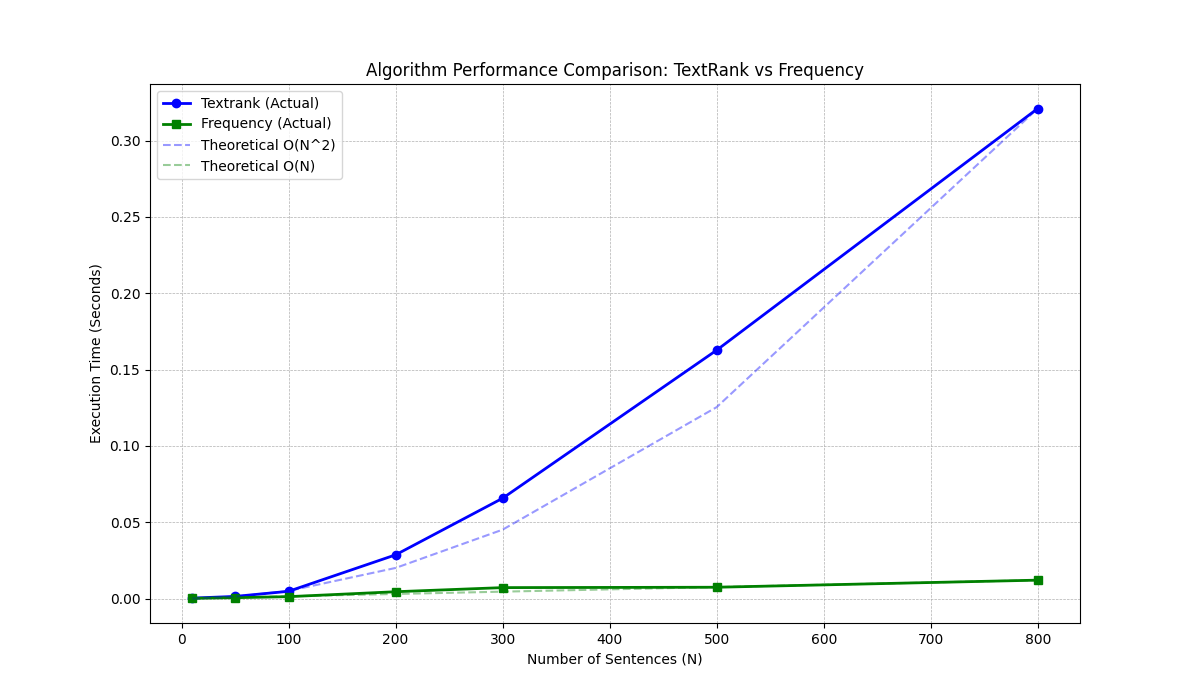
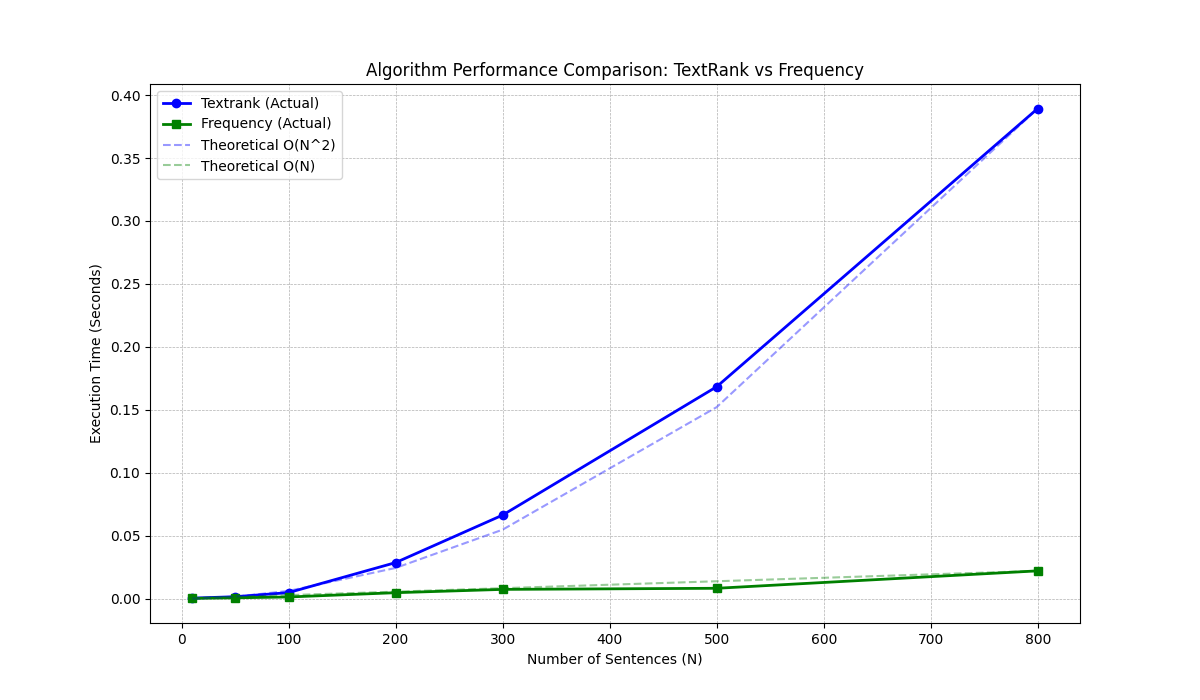
Add demo

diff --git a/interactive_summary.py b/interactive_summary.py
@@ -1,0 +1,244 @@
+import sys
+import time
+import os
+import re
+import numpy as np
+from datetime import datetime
+from src.utils import load_config, setup_logger, save_summary
+from src.preprocessing import split_into_sentences, filter_sentences
+from src.llm_oracle import LLMOracle
+from src.hybrid_merge import HybridMerger
+from src.classic_strategies import get_strategy
+import warnings
+
+warnings.filterwarnings("ignore")
+
+def get_multiline_input():
+    """
+    Captures multiline input from the user via the console.
+    Ends when the user types 'END' on a new line.
+    """
+    print("\n" + "-"*60)
+    print(" INPUT REQUIRED")
+    print("-"*60)
+    print("Please paste your text below.")
+    print("Type 'END' on a new line and press Enter to start processing.")
+    print("Type 'EXIT' to quit the program.")
+    print("-"*60)
+    
+    lines = []
+    while True:
+        try:
+            line = input()
+        except EOFError:
+            break
+            
+        if line.strip().upper() == 'END':
+            break
+        if line.strip().upper() == 'EXIT':
+            return None
+            
+        lines.append(line)
+    
+    return "\n".join(lines)
+
+def evaluate_summaries_with_llm(oracle, original_text, candidates):
+    """
+    Uses the LLM to judge the quality of the generated summaries.
+    Returns a dictionary of scores (0-100).
+    """
+    print("\n[Judge] Asking LLM to evaluate the summaries...")
+    
+    # Constructing a prompt for the LLM to act as a judge
+    prompt = f"""
+    You are an expert evaluator of text summarization systems.
+    
+    ORIGINAL TEXT:
+    "{original_text}"
+    
+    Please evaluate the following 3 summaries based on Accuracy, Coherence, and Coverage.
+    Assign a score from 0 to 100 for each.
+    
+    SUMMARY 1 (Classic Strategy):
+    "{candidates['Classic']}"
+    
+    SUMMARY 2 (Semantic/LLM):
+    "{candidates['Semantic']}"
+    
+    SUMMARY 3 (Hybrid Merged):
+    "{candidates['Hybrid']}"
+    
+    RESPONSE FORMAT:
+    You must return the result strictly in this format:
+    Classic: <score>
+    Semantic: <score>
+    Hybrid: <score>
+    
+    Do not add any explanation, just the scores.
+    """
+    
+    try:
+        # We reuse the oracle's generation method to get the evaluation
+        # Assuming get_abstractive_summary sends text to LLM
+        response_text = oracle.get_abstractive_summary(prompt)
+        
+        # Parse scores using Regex to be robust
+        scores = {}
+        patterns = {
+            'Classic': r"Classic:\s*(\d+)",
+            'Semantic': r"Semantic:\s*(\d+)",
+            'Hybrid': r"Hybrid:\s*(\d+)"
+        }
+        
+        for key, pattern in patterns.items():
+            match = re.search(pattern, response_text)
+            if match:
+                scores[key] = int(match.group(1))
+            else:
+                scores[key] = 0 # Default if parsing fails
+                
+        return scores, response_text
+        
+    except Exception as e:
+        print(f"[Judge Error] Could not evaluate: {e}")
+        return {'Classic': 0, 'Semantic': 0, 'Hybrid': 0}, "Error"
+
+def process_text(text, config, logger, oracle):
+    """
+    Main processing pipeline: Preprocessing -> Classic -> LLM -> Hybrid -> Evaluation.
+    """
+    if not text or not text.strip():
+        print("❌ No text entered. Please try again.")
+        return
+
+    start_total = time.time()
+
+    # 1. Preprocessing
+    logger.info("Processing input text...")
+    sentences = split_into_sentences(text)
+    # Relax filter for very short inputs to avoid errors
+    min_len = 5 if len(text) < 300 else config['preprocessing']['min_sentence_length']
+    sentences = filter_sentences(sentences, min_len)
+
+    if len(sentences) < 2:
+        print("⚠ Input text is too short or has too few sentences to summarize.")
+        return
+
+    # 2. Phase 1: Classic Algorithm
+    method_name = config.get('classic', {}).get('method', 'textrank')
+    logger.info(f"Phase 1: Running {method_name.upper()}...")
+    
+    try:
+        strategy = get_strategy(method_name)
+        classic_scores = strategy.calculate_scores(sentences, config)
+    except Exception as e:
+        logger.error(f"Error in classic algorithm: {e}")
+        print(f"❌ Error in Classic Algorithm: {e}")
+        return
+
+    # Generate Classic Summary Text
+    top_n = config['hybrid']['final_summary_count']
+    ranked_indices = np.argsort(classic_scores)[::-1][:top_n]
+    ranked_indices = sorted(ranked_indices)
+    classic_summary_text = " ".join([sentences[i] for i in ranked_indices])
+
+    # 3. Phase 2: LLM Oracle
+    logger.info("Phase 2: Querying LLM Oracle...")
+    try:
+        llm_summary_text = oracle.get_abstractive_summary(text)
+    except Exception as e:
+        logger.error(f"LLM Error: {e}")
+        llm_summary_text = "Error getting LLM summary."
+
+    # 4. Hybrid Merge
+    logger.info("Phase 3: Merging Scores...")
+    merger = HybridMerger(
+        alpha=config['hybrid']['alpha'],
+        beta=config['hybrid']['beta']
+    )
+    
+    results = merger.merge_scores(sentences, classic_scores, llm_summary_text)
+    final_hybrid_summary = merger.get_top_n(results, n=config['hybrid']['final_summary_count'])
+
+    # 5. LLM Judge Evaluation (New Feature)
+    candidates = {
+        "Classic": classic_summary_text,
+        "Semantic": llm_summary_text,
+        "Hybrid": final_hybrid_summary
+    }
+    
+    scores, judge_reasoning = evaluate_summaries_with_llm(oracle, text, candidates)
+
+    # 6. Output to Console
+    print("\n" + "▒"*20 + "  FINAL RESULTS  " + "▒"*20)
+    
+    print(f"\n🔹 1. CLASSICAL SUMMARY ({method_name.upper()})")
+    print("-" * 50)
+    print(classic_summary_text)
+    
+    print("\n🔹 2. SEMANTIC SUMMARY (LLM Oracle)")
+    print("-" * 50)
+    print(llm_summary_text)
+    
+    print("\n✅ 3. HYBRID SUMMARY (Merged)")
+    print("-" * 50)
+    print(final_hybrid_summary)
+    
+    print("\n" + "="*50)
+    print("⚖  LLM JUDGE SCORECARD (0-100)")
+    print("="*50)
+    print(f"{'Method':<20} | {'Score':<10}")
+    print("-" * 35)
+    print(f"{'Classic':<20} | {scores['Classic']}")
+    print(f"{'Semantic':<20} | {scores['Semantic']}")
+    print(f"{'Hybrid':<20} | {scores['Hybrid']}")
+    
+    
+    print("\n" + "▒"*60 + "\n")
+
+    # Save logic
+    try:
+        timestamp = datetime.now().strftime("%Y%m%d_%H%M%S")
+        output_dir = config['io']['output_dir']
+        save_summary(output_dir, f"summary_{timestamp}_hybrid.txt", final_hybrid_summary)
+        logger.info(f"Processing finished in {time.time() - start_total:.2f}s")
+    except Exception as e:
+        logger.warning(f"Could not save file: {e}")
+
+def main():
+    # Setup - Load once
+    print("Initializing Engine... Please wait.")
+    config = load_config()
+    logger = setup_logger()
+    
+    # Initialize LLM Oracle
+    try:
+        oracle = LLMOracle(config['llm'])
+    except Exception as e:
+        logger.error(f"Failed to initialize LLM Oracle: {e}")
+        print(f"Fatal Error: {e}")
+        return
+
+    logger.info("Interactive Summarization Engine Ready.")
+
+    # Main Loop
+    while True:
+        try:
+            user_text = get_multiline_input()
+            
+            if user_text is None:
+                print("Exiting program. Goodbye!")
+                break
+                
+            process_text(user_text, config, logger, oracle)
+            
+        except KeyboardInterrupt:
+            print("\nOperation cancelled by user.")
+            break
+        except Exception as e:
+            logger.error(f"Unexpected error: {e}")
+            print(f"An unexpected error occurred: {e}")
+            print("Restarting loop...")
+
+if __name__ == "__main__":
+    main()
